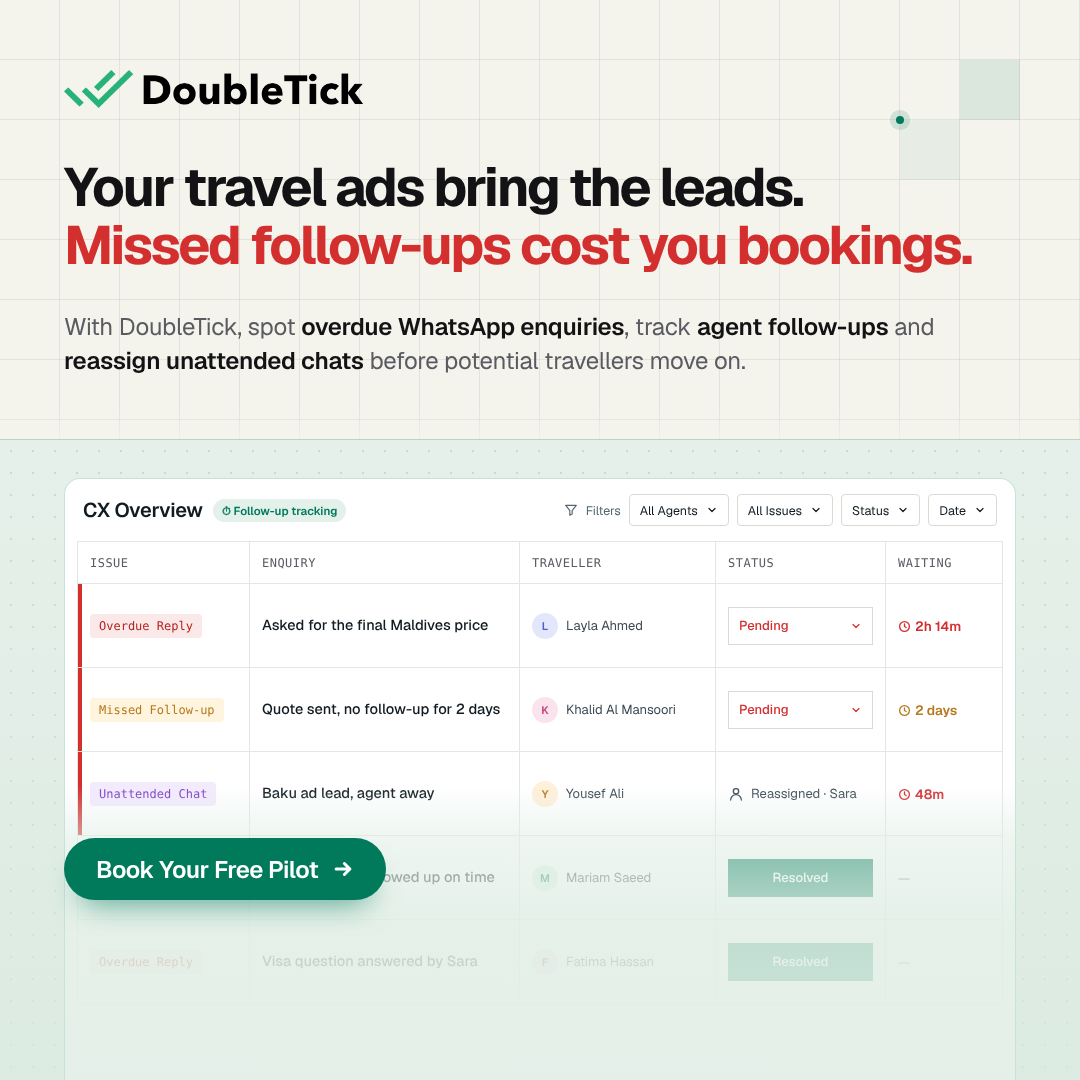
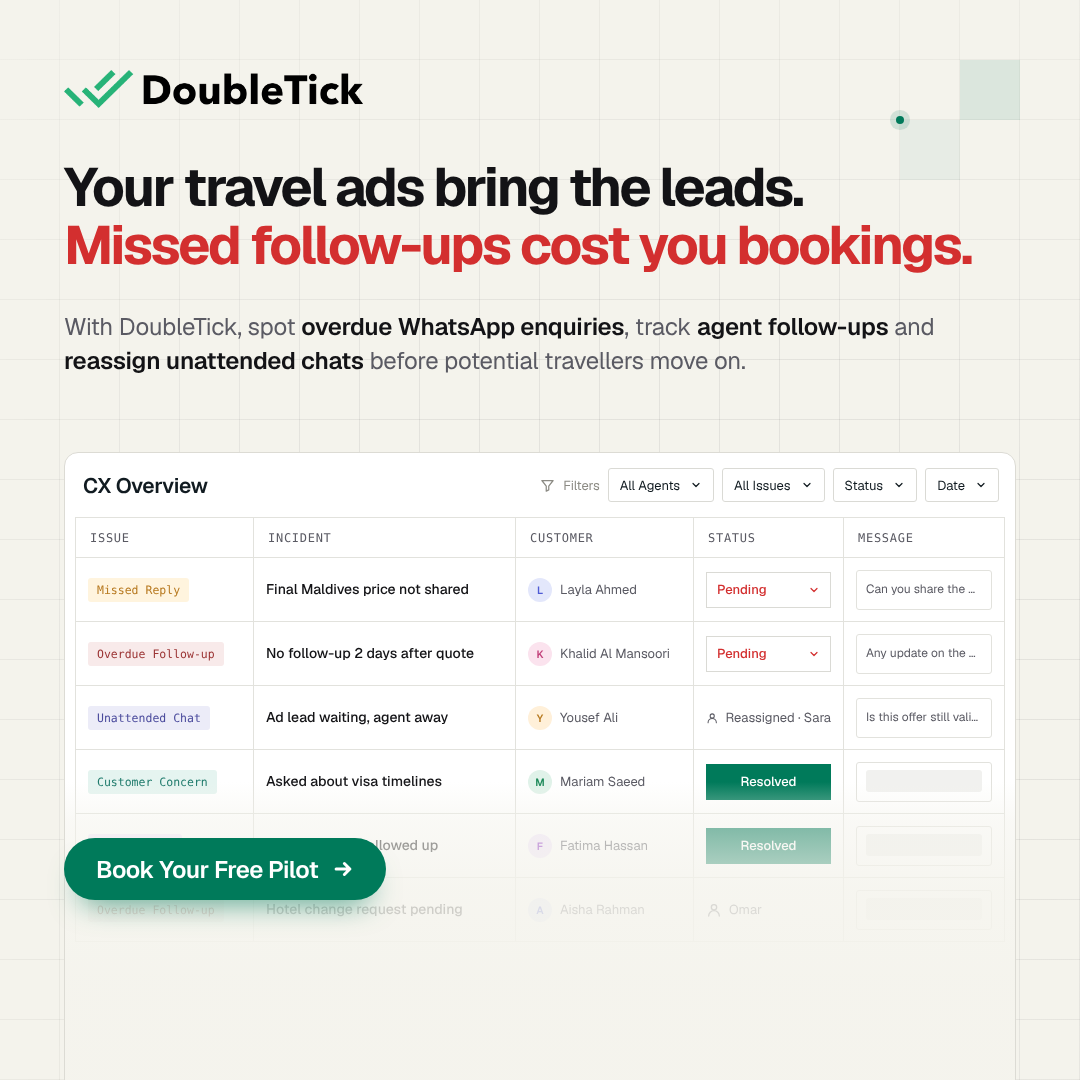
feat(ads): overdue follow-ups CX Overview light, closer to reference UI
Claude-Session: https://claude.ai/code/session_01U68wzeZAut9FRgfZMxNXRM

diff --git a/ads/doubletick-overdue-followups/index-cx.html b/ads/doubletick-overdue-followups/index-cx.html
@@ -3,7 +3,7 @@
 <head>
 <meta charset="utf-8" />
 <meta name="viewport" content="width=1080, height=1080" />
-<title>DoubleTick Overdue Follow-ups Ad (CX)</title>
+<title>DoubleTick Overdue Follow-ups Ad (CX Overview)</title>
 <style>
   @font-face { font-family: "Geist"; src: url(fonts/geist-latin.woff2) format("woff2"); font-weight: 100 900; }
   @font-face { font-family: "Geist"; src: url(fonts/geist-latin-ext.woff2) format("woff2"); font-weight: 100 900; unicode-range: U+0100-02BA, U+20A0-20C4; }
@@ -23,39 +23,34 @@
   .sub { position: absolute; top: 310px; left: 64px; width: 930px; font-size: 24px; line-height: 1.4; color: var(--ink-2); letter-spacing: -0.01em; }
   .sub b { color: var(--ink); font-weight: 600; }
 
-  /* v2: green panel + CX Overview table */
-  .panel { position: absolute; left: 0; right: 0; top: 440px; bottom: 0; background: linear-gradient(180deg, #E6F0EA 0%, #DCEBE2 100%); }
-  .panel::before { content: ""; position: absolute; inset: 0; background-image: radial-gradient(rgba(0,122,90,0.16) 1.2px, transparent 1.3px); background-size: 22px 22px; -webkit-mask-image: linear-gradient(180deg, #000, rgba(0,0,0,0.25)); }
-  .panel::after { content: ""; position: absolute; left: 0; right: 0; top: -1px; height: 1px; background: rgba(0,122,90,0.25); }
-  #cx { z-index: 1; left: 64px; top: 478px; width: 952px; height: 640px; border-radius: 16px; background: #fff; border: 1px solid rgba(0,122,90,0.22); overflow: hidden; color: #111B21; }
-  #cx::after { content: ""; position: absolute; inset: 0; pointer-events: none; background: linear-gradient(to bottom, rgba(225,238,230,0) 0%, rgba(225,238,230,0) 48%, rgba(225,238,230,0.55) 56%, rgba(225,238,230,0.85) 70%, rgba(225,238,230,0.95) 100%); }
-  #cx .top { height: 62px; display: flex; align-items: center; gap: 10px; padding: 0 18px; }
-  #cx .top h3 { font-size: 20px; font-weight: 600; letter-spacing: -0.01em; }
-  #cx .ai2 { display: inline-flex; align-items: center; gap: 5px; font-size: 11.5px; font-weight: 600; color: var(--green); background: #E3F1EA; padding: 4px 9px; border-radius: 999px; }
-  #cx .flt { margin-left: auto; display: flex; align-items: center; gap: 8px; font-size: 12.5px; color: #54656F; }
-  #cx .dd { display: inline-flex; align-items: center; gap: 8px; height: 32px; padding: 0 10px; border: 1px solid #DADAD5; border-radius: 4px; font-size: 12.5px; color: #111B21; }
-  #cx table { position: absolute; left: 12px; top: 62px; width: calc(100% - 24px); border-collapse: collapse; table-layout: fixed; }
-  #cx th { height: 42px; text-align: left; padding: 0 12px; font-family: ui-monospace, "DejaVu Sans Mono", monospace; font-size: 12px; font-weight: 500; letter-spacing: 0.04em; color: #5A5A63; border: 1px solid #E6E6E1; }
-  #cx td { height: 84px; padding: 0 12px; border: 1px solid #E6E6E1; font-size: 14.5px; vertical-align: middle; }
-  .itag { display: inline-block; font-family: ui-monospace, "DejaVu Sans Mono", monospace; font-size: 12px; padding: 5px 9px; border-radius: 4px; white-space: nowrap; }
-  .it-red { color: #B3261E; background: #FBE9E9; } .it-amb { color: #B7791F; background: #FFF4DE; } .it-pur { color: #7B3FC4; background: #F3EAFE; } .it-tea { color: #1E7A6B; background: #E5F4F0; }
-  .inc { font-weight: 500; line-height: 1.3; }
-  .cu { display: flex; align-items: center; gap: 8px; font-size: 13px; color: #3B4A54; white-space: nowrap; }
-  .cu .av { width: 26px; height: 26px; border-radius: 50%; display: grid; place-items: center; font-size: 11px; font-weight: 600; flex: none; }
-  .a1 { background: #E3E7FB; color: #4F5BD5; } .a2 { background: #FBE3EE; color: #C2407A; } .a3 { background: #E0F2E9; color: #1E8A5A; } .a4 { background: #FFF0D9; color: #B7791F; }
-  .res { display: grid; place-items: center; height: 38px; background: var(--green); color: #fff; font-size: 13px; font-weight: 500; }
-  .pen { display: flex; align-items: center; justify-content: space-between; height: 38px; padding: 0 10px; border: 1.5px solid #DADAD5; color: #D32F2F; font-size: 13px; font-weight: 500; }
-  .asg { display: flex; align-items: center; gap: 7px; font-size: 13px; color: #3B4A54; white-space: nowrap; }
-  .wt { font-size: 13.5px; font-weight: 600; } .wt.r { color: #D32F2F; } .wt.a { color: #B7791F; } .wt.g { color: #8696A0; font-weight: 500; }
+  /* CX Overview (reference UI, simplified) on beige, fading from just above the CTA */
+  #cx { z-index: 1; left: 64px; top: 452px; width: 952px; height: 660px; border-radius: 14px; background: #fff; border: 1px solid #DCDBD4; overflow: hidden; color: #111B21; }
+  #cx::after { content: ""; position: absolute; inset: 0; pointer-events: none; background: linear-gradient(to bottom, rgba(244,243,236,0) 0%, rgba(244,243,236,0) 50%, rgba(244,243,236,0.5) 56%, rgba(244,243,236,0.8) 66%, rgba(244,243,236,0.93) 80%, rgba(244,243,236,0.96) 100%); }
+  #cx .top { height: 64px; display: flex; align-items: center; gap: 10px; padding: 0 16px 0 18px; }
+  #cx .top h3 { font-size: 21px; font-weight: 600; letter-spacing: -0.015em; }
+  #cx .flt { margin-left: auto; display: flex; align-items: center; gap: 8px; font-size: 13px; color: #8C8B84; }
+  #cx .dd { display: inline-flex; align-items: center; gap: 10px; height: 34px; padding: 0 11px; border: 1.5px solid #DADAD5; border-radius: 3px; font-size: 13px; color: #111B21; background: #fff; }
+  #cx table { position: absolute; left: 10px; top: 64px; width: calc(100% - 20px); border-collapse: collapse; table-layout: fixed; }
+  #cx th { height: 40px; text-align: left; padding: 0 14px; font-family: ui-monospace, "DejaVu Sans Mono", monospace; font-size: 12px; font-weight: 500; letter-spacing: 0.06em; color: #5A5A63; border: 1.5px solid #E2E2DD; }
+  #cx td { height: 64px; padding: 0 12px; border: 1.5px solid #E2E2DD; vertical-align: middle; }
+  .itag { display: inline-block; font-family: ui-monospace, "DejaVu Sans Mono", monospace; font-size: 11.5px; padding: 5px 9px; border-radius: 3px; white-space: nowrap; }
+  .it-amb { color: #B7791F; background: #FFF4DE; } .it-red { color: #9B3434; background: #F8EAEA; } .it-ind { color: #4A4A9C; background: #ECECF8; } .it-tea { color: #1E7A6B; background: #E5F4F0; } .it-pur { color: #8A2BC4; background: #F5EAFE; }
+  .inc { font-size: 14px; font-weight: 500; color: #131316; line-height: 1.25; }
+  .cu { display: flex; align-items: center; gap: 8px; font-size: 13px; color: #5A5A63; white-space: nowrap; }
+  .cu .av { width: 24px; height: 24px; border-radius: 50%; display: grid; place-items: center; font-size: 10.5px; font-weight: 600; flex: none; }
+  .a1 { background: #E3E7FB; color: #4F5BD5; } .a2 { background: #FBE3EE; color: #C2407A; } .a3 { background: #E0F2E9; color: #1E8A5A; } .a4 { background: #FFF0D9; color: #B7791F; } .a5 { background: #F1E6FB; color: #8A2BC4; }
+  .res { display: grid; place-items: center; height: 36px; background: var(--green); color: #fff; font-size: 13px; font-weight: 500; }
+  .pen { display: flex; align-items: center; justify-content: space-between; height: 36px; padding: 0 10px; border: 1.5px solid #DADAD5; color: #D32F2F; font-size: 13px; font-weight: 500; }
+  .asg { display: flex; align-items: center; gap: 7px; font-size: 13px; color: #5A5A63; white-space: nowrap; }
+  .msgb { height: 40px; line-height: 37px; border: 1.5px solid #E2E2DD; border-radius: 3px; display: block; padding: 0 9px; font-size: 12px; color: #5A5A63; white-space: nowrap; overflow: hidden; text-overflow: ellipsis; }
+  .msgb.ph::before { content: ""; display: block; width: 100%; height: 22px; margin-top: 7.5px; border-radius: 3px; background: #F1F1EF; }
   .footer { position: absolute; left: 64px; bottom: 180px; z-index: 10; }
   .cta { display: inline-flex; align-items: center; gap: 14px; padding: 0 32px; height: 62px; border-radius: 999px; background: var(--green); color: #fff; font-weight: 600; font-size: 24px; letter-spacing: -0.02em; box-shadow: 0 18px 30px -16px rgba(0,122,90,0.7); }
-  tr.flag td:first-child { box-shadow: inset 4px 0 0 #D32F2F; }
 </style>
 </head>
 <body>
 <div class="ad">
-  <div class="grid" style="-webkit-mask-image:linear-gradient(180deg,#000 0%,#000 38%,transparent 42%)"></div>
-  <div class="panel"></div>
+  <div class="grid"></div>
   <div class="cell" style="left:960px;top:60px"></div>
   <div class="cell soft" style="left:900px;top:120px"></div>
   <div class="dot" style="left:900px;top:120px"></div>
@@ -67,10 +62,10 @@
 
   <!-- DoubleTick inbox: Sales, Operations and Support on one thread -->
   <div id="cx" class="abs">
-    <div class="top"><h3>CX Overview</h3><span class="ai2">⏱ Follow-up tracking</span><div class="flt"><svg width="14" height="14" viewBox="0 0 24 24" fill="none" stroke="#54656F" stroke-width="2" stroke-linejoin="round"><path d="M3 4h18l-7 9v6l-4 2v-8z"/></svg>Filters<span class="dd">All Agents <svg width="12" height="12" viewBox="0 0 24 24" fill="none" stroke="#111B21" stroke-width="2.4" stroke-linecap="round" stroke-linejoin="round"><path d="M6 9l6 6 6-6"/></svg></span><span class="dd">All Issues <svg width="12" height="12" viewBox="0 0 24 24" fill="none" stroke="#111B21" stroke-width="2.4" stroke-linecap="round" stroke-linejoin="round"><path d="M6 9l6 6 6-6"/></svg></span><span class="dd">Status <svg width="12" height="12" viewBox="0 0 24 24" fill="none" stroke="#111B21" stroke-width="2.4" stroke-linecap="round" stroke-linejoin="round"><path d="M6 9l6 6 6-6"/></svg></span><span class="dd">Date <svg width="12" height="12" viewBox="0 0 24 24" fill="none" stroke="#111B21" stroke-width="2.4" stroke-linecap="round" stroke-linejoin="round"><path d="M6 9l6 6 6-6"/></svg></span></div></div>
-    <table><colgroup><col style="width:172px"><col style="width:270px"><col style="width:196px"><col style="width:170px"><col></colgroup>
-      <tr><th>ISSUE</th><th>ENQUIRY</th><th>TRAVELLER</th><th>STATUS</th><th>WAITING</th></tr>
-      <tr class="flag"><td><span class="itag it-red">Overdue Reply</span></td><td class="inc">Asked for the final Maldives price</td><td><div class="cu"><span class="av a1">L</span>Layla Ahmed</div></td><td><div class="pen">Pending <svg width="12" height="12" viewBox="0 0 24 24" fill="none" stroke="#D32F2F" stroke-width="2.4" stroke-linecap="round" stroke-linejoin="round"><path d="M6 9l6 6 6-6"/></svg></div></td><td><span class="wt r"><svg width="13" height="13" viewBox="0 0 24 24" fill="none" stroke="currentColor" stroke-width="2.4" stroke-linecap="round" style="vertical-align:-2px;margin-right:4px"><circle cx="12" cy="12" r="9"/><path d="M12 7v5l3 2"/></svg>2h 14m</span></td></tr><tr class="flag"><td><span class="itag it-amb">Missed Follow-up</span></td><td class="inc">Quote sent, no follow-up for 2 days</td><td><div class="cu"><span class="av a2">K</span>Khalid Al Mansoori</div></td><td><div class="pen">Pending <svg width="12" height="12" viewBox="0 0 24 24" fill="none" stroke="#D32F2F" stroke-width="2.4" stroke-linecap="round" stroke-linejoin="round"><path d="M6 9l6 6 6-6"/></svg></div></td><td><span class="wt a"><svg width="13" height="13" viewBox="0 0 24 24" fill="none" stroke="currentColor" stroke-width="2.4" stroke-linecap="round" style="vertical-align:-2px;margin-right:4px"><circle cx="12" cy="12" r="9"/><path d="M12 7v5l3 2"/></svg>2 days</span></td></tr><tr class="flag"><td><span class="itag it-pur">Unattended Chat</span></td><td class="inc">Baku ad lead, agent away</td><td><div class="cu"><span class="av a4">Y</span>Yousef Ali</div></td><td><div class="asg"><svg width="16" height="16" viewBox="0 0 24 24" fill="none" stroke="#3B4A54" stroke-width="2" stroke-linecap="round"><circle cx="12" cy="8" r="4"/><path d="M4 21a8 8 0 0 1 16 0"/></svg>Reassigned · Sara</div></td><td><span class="wt r"><svg width="13" height="13" viewBox="0 0 24 24" fill="none" stroke="currentColor" stroke-width="2.4" stroke-linecap="round" style="vertical-align:-2px;margin-right:4px"><circle cx="12" cy="12" r="9"/><path d="M12 7v5l3 2"/></svg>48m</span></td></tr><tr class=""><td><span class="itag it-tea">Followed Up</span></td><td class="inc">Georgia quote followed up on time</td><td><div class="cu"><span class="av a3">M</span>Mariam Saeed</div></td><td><div class="res">Resolved</div></td><td><span class="wt g">—</span></td></tr><tr class=""><td><span class="itag it-red">Overdue Reply</span></td><td class="inc">Visa question answered by Sara</td><td><div class="cu"><span class="av a2">F</span>Fatima Hassan</div></td><td><div class="res">Resolved</div></td><td><span class="wt g">—</span></td></tr>
+    <div class="top"><h3>CX Overview</h3><div class="flt"><svg width="15" height="15" viewBox="0 0 24 24" fill="none" stroke="#8C8B84" stroke-width="2" stroke-linejoin="round"><path d="M3 4h18l-7 9v6l-4 2v-8z"/></svg>Filters<span class="dd">All Agents <svg width="12" height="12" viewBox="0 0 24 24" fill="none" stroke="#111B21" stroke-width="2.4" stroke-linecap="round" stroke-linejoin="round"><path d="M6 9l6 6 6-6"/></svg></span><span class="dd">All Issues <svg width="12" height="12" viewBox="0 0 24 24" fill="none" stroke="#111B21" stroke-width="2.4" stroke-linecap="round" stroke-linejoin="round"><path d="M6 9l6 6 6-6"/></svg></span><span class="dd">Status <svg width="12" height="12" viewBox="0 0 24 24" fill="none" stroke="#111B21" stroke-width="2.4" stroke-linecap="round" stroke-linejoin="round"><path d="M6 9l6 6 6-6"/></svg></span><span class="dd">Date <svg width="12" height="12" viewBox="0 0 24 24" fill="none" stroke="#111B21" stroke-width="2.4" stroke-linecap="round" stroke-linejoin="round"><path d="M6 9l6 6 6-6"/></svg></span></div></div>
+    <table><colgroup><col style="width:178px"><col style="width:262px"><col style="width:178px"><col style="width:150px"><col></colgroup>
+      <tr><th>ISSUE</th><th>INCIDENT</th><th>CUSTOMER</th><th>STATUS</th><th>MESSAGE</th></tr>
+      <tr><td><span class="itag it-amb">Missed Reply</span></td><td class="inc">Final Maldives price not shared</td><td><div class="cu"><span class="av a1">L</span>Layla Ahmed</div></td><td><div class="pen">Pending <svg width="12" height="12" viewBox="0 0 24 24" fill="none" stroke="#D32F2F" stroke-width="2.4" stroke-linecap="round" stroke-linejoin="round"><path d="M6 9l6 6 6-6"/></svg></div></td><td><div class="msgb">Can you share the final price?</div></td></tr><tr><td><span class="itag it-red">Overdue Follow-up</span></td><td class="inc">No follow-up 2 days after quote</td><td><div class="cu"><span class="av a2">K</span>Khalid Al Mansoori</div></td><td><div class="pen">Pending <svg width="12" height="12" viewBox="0 0 24 24" fill="none" stroke="#D32F2F" stroke-width="2.4" stroke-linecap="round" stroke-linejoin="round"><path d="M6 9l6 6 6-6"/></svg></div></td><td><div class="msgb">Any update on the Baku quote?</div></td></tr><tr><td><span class="itag it-ind">Unattended Chat</span></td><td class="inc">Ad lead waiting, agent away</td><td><div class="cu"><span class="av a4">Y</span>Yousef Ali</div></td><td><div class="asg"><svg width="16" height="16" viewBox="0 0 24 24" fill="none" stroke="#5A5A63" stroke-width="2" stroke-linecap="round"><circle cx="12" cy="8" r="4"/><path d="M4 21a8 8 0 0 1 16 0"/></svg>Reassigned · Sara</div></td><td><div class="msgb">Is this offer still valid?</div></td></tr><tr><td><span class="itag it-tea">Customer Concern</span></td><td class="inc">Asked about visa timelines</td><td><div class="cu"><span class="av a3">M</span>Mariam Saeed</div></td><td><div class="res">Resolved</div></td><td><div class="msgb ph"></div></td></tr><tr><td><span class="itag it-pur">Followed Up</span></td><td class="inc">Georgia quote followed up</td><td><div class="cu"><span class="av a5">F</span>Fatima Hassan</div></td><td><div class="res">Resolved</div></td><td><div class="msgb ph"></div></td></tr><tr><td><span class="itag it-red">Overdue Follow-up</span></td><td class="inc">Hotel change request pending</td><td><div class="cu"><span class="av a1">A</span>Aisha Rahman</div></td><td><div class="asg"><svg width="16" height="16" viewBox="0 0 24 24" fill="none" stroke="#5A5A63" stroke-width="2" stroke-linecap="round"><circle cx="12" cy="8" r="4"/><path d="M4 21a8 8 0 0 1 16 0"/></svg>Omar</div></td><td><div class="msgb ph"></div></td></tr>
     </table>
   </div>
 
